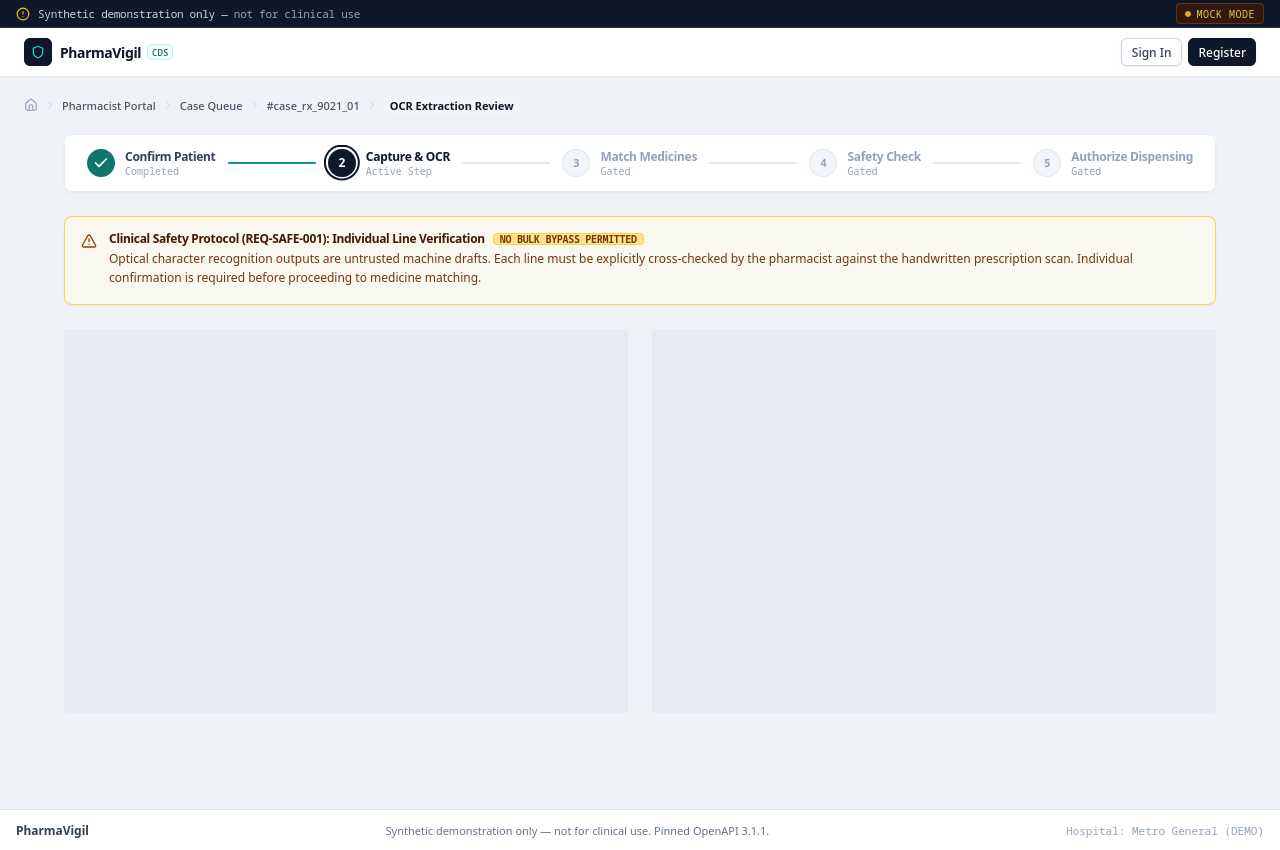
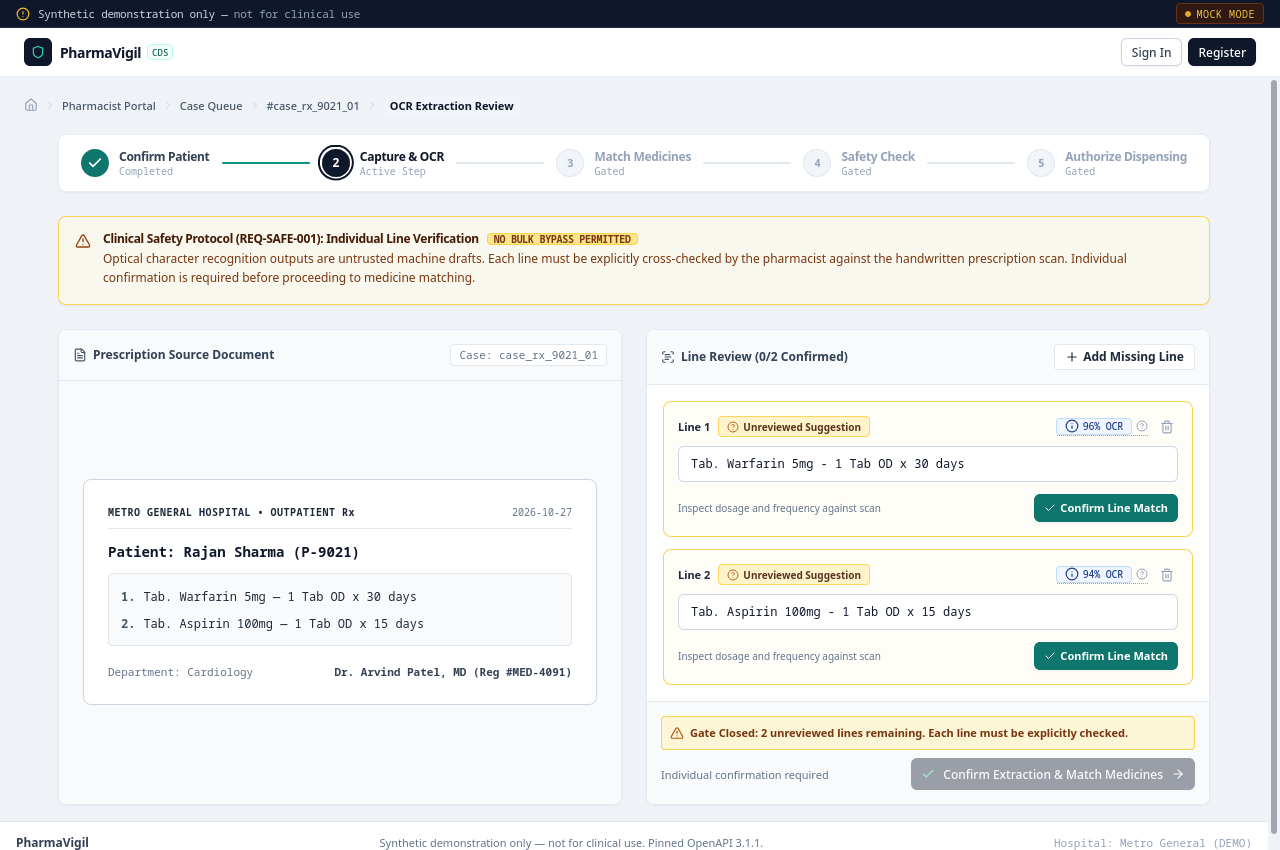
feat(pharmacist): optimize initial state hydration on extract and results pages to eliminate skeleton flicker

diff --git a/medication-safety-frontend/src/app/pharmacist/cases/[id]/extract/page.tsx b/medication-safety-frontend/src/app/pharmacist/cases/[id]/extract/page.tsx
@@ -3,7 +3,7 @@
 import React, { useEffect, useState } from "react";
 import { useParams, useRouter } from "next/navigation";
 import { api } from "@/lib/api-client";
-import type { FixtureCase } from "@/lib/mock-data/fixtures";
+import { INITIAL_FIXTURE_CASE, type FixtureCase } from "@/lib/mock-data/fixtures";
 import { PipelineStepper } from "@/components/clinical/PipelineStepper";
 import { Button } from "@/components/ui/Button";
 import { Badge } from "@/components/ui/Badge";
@@ -38,8 +38,8 @@ export default function OcrExtractPage() {
   const router = useRouter();
   const caseId = params.id as string;
 
-  const [caseData, setCaseData] = useState<FixtureCase | null>(null);
-  const [loading, setLoading] = useState(true);
+  const [caseData, setCaseData] = useState<FixtureCase | null>(INITIAL_FIXTURE_CASE);
+  const [loading, setLoading] = useState(false);
   const [lines, setLines] = useState<OcrLineItem[]>([
     { id: 1, text: "Tab. Warfarin 5mg - 1 Tab OD x 30 days", confidence: 0.96, status: "UNREVIEWED" },
     { id: 2, text: "Tab. Aspirin 100mg - 1 Tab OD x 15 days", confidence: 0.94, status: "UNREVIEWED" },

diff --git a/medication-safety-frontend/src/app/pharmacist/cases/[id]/results/page.tsx b/medication-safety-frontend/src/app/pharmacist/cases/[id]/results/page.tsx
@@ -3,7 +3,7 @@
 import React, { useEffect, useState } from "react";
 import { useParams, useRouter } from "next/navigation";
 import { api } from "@/lib/api-client";
-import type { FixtureCase } from "@/lib/mock-data/fixtures";
+import { INITIAL_FIXTURE_CASE, type FixtureCase } from "@/lib/mock-data/fixtures";
 import { PipelineStepper } from "@/components/clinical/PipelineStepper";
 import { RuleNoticeBanner } from "@/components/clinical/RuleNoticeBanner";
 import { CoverageMatrix } from "@/components/clinical/CoverageMatrix";
@@ -26,8 +26,8 @@ export default function CheckResultsPage() {
   const router = useRouter();
   const caseId = params.id as string;
 
-  const [caseData, setCaseData] = useState<FixtureCase | null>(null);
-  const [loading, setLoading] = useState(true);
+  const [caseData, setCaseData] = useState<FixtureCase | null>(INITIAL_FIXTURE_CASE);
+  const [loading, setLoading] = useState(false);
 
   useEffect(() => {
     async function loadCase() {
